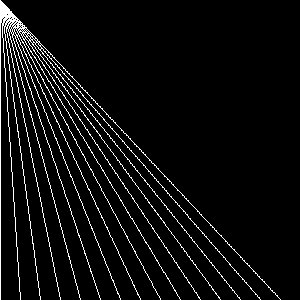
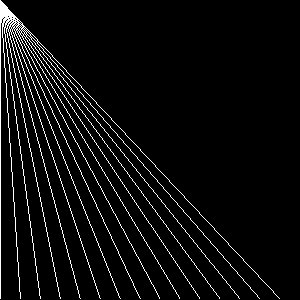
增加任意角度的动态模糊及其相关函数

diff --git a/ImageProcessing/lib_math.py b/ImageProcessing/lib_math.py
@@ -6,39 +6,141 @@
 
 import math
 
-class Vector2(object):
-	def __init__(self, x, y):
-		super(Vector2, self).__init__()
-		self._x = x
-		self._y = y
+
+###################################################################
+### 二维向量
+###################################################################
+
+class Vector2( object ):
+	def __init__( self, x, y ):
+		super( Vector2, self ).__init__()
+		self._x = float(x)
+		self._y = float(y)
 
 	@property
-	def x(self):return self._x
+	def x( self ):return self._x
 	@x.setter
-	def x(self, x):self._x = x
+	def x( self, x ):self._x = x
 
 	@property
-	def y(self):return self._y
+	def y( self ):return self._y
 	@y.setter
-	def y(self, y):self._y = y
+	def y( self, y ):self._y = y
 
 	@property
-	def x_int(self):return int(round(self._x))
+	def x_int( self ):return int( round( self._x ) )
 	@property
-	def y_int(self):return int(round(self._y))
+	def y_int( self ):return int( round( self._y ) )
+
+	def GetGrid( self ):return Vector2( self.x_int, self.y_int )
 
 	def sort( self, vec ):
-		self.x, vec.x = min(self.x, vec.x), max(self.x, vec.x)
-		self.y, vec.y = min(self.y, vec.y), max(self.y, vec.y)
+		self.x, vec.x = min( self.x, vec.x ), max( self.x, vec.x )
+		self.y, vec.y = min( self.y, vec.y ), max( self.y, vec.y )
 
-	def __sub__( self, vec ):return Vector2(self.x - vec.x, self.y - vec.y)
-	def __add__( self, vec ):return Vector2(self.x + vec.x, self.y + vec.y)
-	def __mul__( self, f ):return Vector2(self.x * f, self.y * f)
+	def __sub__( self, vec ):return Vector2( self.x - vec.x, self.y - vec.y )
+	def __add__( self, vec ):return Vector2( self.x + vec.x, self.y + vec.y )
+	def __mul__( self, f ):return Vector2( self.x * f, self.y * f )
+	def __div__( self, vec_or_f ):
+		if isinstance( vec_or_f, Vector2 ):
+			x_div = (self.x / vec_or_f.x) if vec_or_f.x > vec_or_f.y else (self.y / vec_or_f.y)
+		else:
+			return Vector2( self.x / vec_or_f, self.y / vec_or_f )
+
+	def __str__( self ):return "<Vector2>(%.2f, %.2f)" % (self.x, self.y, )
 
 	def normalise( self ):
 		length = self.length()
+		if not length:return
 		self.x /= length
 		self.y /= length
 
 	def length( self ):
 		return math.sqrt( self.x * self.x + self.y * self.y )
+
+	def is_trivial( self ):
+		return self.length() == 0
+
+###################################################################
+### 射线 / 线段
+###################################################################
+
+class Line( object ):
+
+	def __init__( self, startPoint, lineDirect = None, endPoint = None ):
+		super( Line, self ).__init__()
+
+		if lineDirect is not None:
+			self.lineDirect = lineDirect
+		elif endPoint is not None:
+			self.lineDirect = endPoint - startPoint
+		else:
+			assert 0
+
+		self.lineDirect.normalise()
+		self.startPoint = startPoint
+
+	def __str__( self ):return "<line>(startPoint:(%.2f, %.2f), direct:(%.2f, %.2f))" % (self.startPoint.x, self.startPoint.y, self.lineDirect.x, self.lineDirect.y, )
+
+	def GetYByX( self, x ):
+		if self.lineDirect.x == 0:return 0
+		return ( x - self.startPoint.x ) / self.lineDirect.x * self.lineDirect.y + self.startPoint.y
+
+	def GetXByY( self, y ):
+		if self.lineDirect.y == 0:return 0
+		return ( y - self.startPoint.y ) / self.lineDirect.y * self.lineDirect.x + self.startPoint.x
+
+###################################################################
+### 适用于格子的线段
+###################################################################
+
+class LineForGrid( Line ):
+
+	def __init__( self, startPoint, lineDirect = None, endPoint = None ):
+		super( LineForGrid, self ).__init__(startPoint, lineDirect = lineDirect, endPoint = endPoint)
+
+		if abs(self.lineDirect.x) > abs(self.lineDirect.y):
+			self.step = Vector2(1, self.lineDirect.y / self.lineDirect.x) #沿着x方向步进
+		else:
+			self.step = Vector2(self.lineDirect.x / self.lineDirect.y, 1) #沿着y方向步进
+
+	def YieldXY( self, max_x = None, max_y = None ):
+		'''
+		遍历每一个经过的格子，endPointMax代表可能到达的最远点
+		这里的max_x和max_y选取的是距离射线正向最近的点，不包括反向
+		'''
+		maxStepCount_x = 999999
+		maxStepCount_y = 999999
+		if max_x is not None and self.step.x != 0:
+			maxStepCount_x = (max_x - 1 - self.startPoint.x) / self.step.x
+		if max_y is not None and self.step.y != 0:
+			maxStepCount_y = (max_y - 1 - self.startPoint.y) / self.step.y
+
+		maxStepCount = maxStepCount_x if maxStepCount_x < maxStepCount_y else maxStepCount_y
+
+		for stepCount in range( int(round(maxStepCount, 0 )) ):
+			yield self.startPoint + self.step * stepCount
+
+	def GetXStep( self ):return self.step.x
+	def GetYStep( self ):return self.step.y
+
+###################################################################
+### 给定一个直线的方向，分别使用x和y方向的步进，来使这个直线划过平面上所有的点
+### 此函数输出的是这个步进的大小
+###################################################################
+
+def GetLineStepX( line_direct ):
+	if line_direct.y == 0:
+		return None
+	elif abs(line_direct.x) > abs(line_direct.y):
+		return int(line_direct.x / line_direct.y)
+	else:
+		return 1
+
+def GetLineStepY( line_direct ):
+	if line_direct.x == 0:
+		return None
+	elif abs(line_direct.y) > abs(line_direct.x):
+		return int(line_direct.y / line_direct.x)
+	else:
+		return 1

diff --git a/ImageProcessing/image_process_toolfuncs.py b/ImageProcessing/image_process_toolfuncs.py
@@ -1,0 +1,146 @@
+# -*- coding:utf-8 -*-
+# ---------------------------
+# 说明：
+#     图片处理框架
+# ---------------------------
+
+import pygame
+import random
+
+from image_process_frame import ImageGeneratingFrame
+from lib_math import Vector2, LineForGrid, GetLineStepX, GetLineStepY
+
+###################################################################
+### 生成：读取贴图
+###################################################################
+
+###################################################################
+### 生成：随机的点
+###################################################################
+
+def random_pixel( image_surface, image_width, image_height ):	
+	for x in xrange( image_width ):
+		for y in xrange( image_height ):
+			image_surface.set_at( (x, y), (random.randint(0, 255), random.randint(0, 255), random.randint(0, 255) ) )
+
+###################################################################
+### 处理：沿着 x 和 y 方向模糊
+###################################################################
+
+def blur_y( image_surface, image_width, image_height, buffer_len ):
+	blur_list = []
+	color_len = 4
+
+	for x in xrange( image_width ):
+		for y in xrange( image_height ):
+			old_color = image_surface.get_at( (x, y) )
+			blur_list.insert(0, old_color)
+
+			sum_color = [0] * color_len
+			for idx in range(color_len):
+				for color in blur_list:
+					sum_color[idx] += color[idx]
+
+			sum_color = [d / float(len(blur_list)) for d in sum_color ]
+
+			if len(blur_list) == buffer_len:
+				blur_list.pop()
+
+			image_surface.set_at( (x, y), sum_color )
+
+def blur_x( image_surface, image_width, image_height, buffer_len ):
+	blur_list = []
+	color_len = 4
+
+	for y in xrange( image_width ):
+		for x in xrange( image_height ):
+			old_color = image_surface.get_at( (x, y) )
+			blur_list.insert(0, old_color)
+
+			sum_color = [0] * color_len
+			for idx in range(color_len):
+				for color in blur_list:
+					sum_color[idx] += color[idx]
+
+			sum_color = [d / float(len(blur_list)) for d in sum_color ]
+
+			if len(blur_list) == buffer_len:
+				blur_list.pop()
+
+			image_surface.set_at( (x, y), sum_color )
+
+###################################################################
+### 处理：某个特定方向模糊
+###################################################################
+
+def blur_line( image_surface, image_width, image_height, buffer_len, blur_direct, start_point ):
+	'''
+	沿着一条线模糊
+	'''
+	if blur_direct.is_trivial():return
+
+	blur_line = LineForGrid( start_point, blur_direct )
+
+	blur_list = []
+	color_len = 4
+	for point in blur_line.YieldXY( max_x = image_width, max_y = image_height ):
+		old_color = image_surface.get_at( (point.x_int, point.y_int) )
+		blur_list.insert(0, old_color)
+
+		sum_color = [0] * color_len
+		for idx in range(color_len):
+			for color in blur_list:
+				sum_color[idx] += color[idx]
+
+		sum_color = [d / float(len(blur_list)) for d in sum_color ]
+
+		if len(blur_list) == buffer_len:
+			blur_list.pop()
+
+		image_surface.set_at( (point.x_int, point.y_int), sum_color )
+
+def blur_vec( image_surface, image_width, image_height, buffer_len, blur_direct ):
+	'''
+	遍历面上的每一条线，对其进行模糊
+	'''
+	start_x = 0
+	start_y = GetLineStepY( blur_direct )
+
+	for step_x in range( start_x, image_width, abs(GetLineStepX( blur_direct )) ):
+		blur_line( image_surface, image_width, image_height, buffer_len, blur_direct, Vector2(step_x, start_y) )
+
+	for step_y in range( start_y, image_height, abs(GetLineStepY( blur_direct )) ):
+		blur_line( image_surface, image_width, image_height, buffer_len, blur_direct, Vector2(start_x, step_y) )
+
+###################################################################
+### 处理：绘制一条线
+###################################################################
+
+def draw_line_1( image_surface, image_width, image_height, line_start, line_end, color ):
+	line_start.sort( line_end )
+
+	step_vec = line_end - line_start
+	step_len = step_vec.length()
+	step_vec.normalise()
+
+	while step_len >= 0:
+		image_surface.set_at( (line_start.x_int + (step_vec*step_len).x_int, line_start.y_int + (step_vec*step_len).y_int), color )
+		step_len -= 1
+
+	return
+
+def draw_line( image_surface, image_width, image_height, line_start, line_end, color ):
+	cur_line = LineForGrid( line_start, endPoint = line_end )
+	for point in cur_line.YieldXY( max_x = image_width, max_y = image_height ):
+		image_surface.set_at( (point.x_int, point.y_int), color )
+
+###################################################################
+### 主流程
+###################################################################
+
+tmp = ImageGeneratingFrame( 300, 300, 300, 300 )
+for i in range(0, 300, 20):
+	tmp.Process(draw_line, Vector2(0, 0), Vector2(i, 299), (255, 255, 255))
+#tmp.Process(random_pixel)
+#tmp.Process(blur_vec, 20, Vector2(2,1) )
+tmp.SaveImageToFile()
